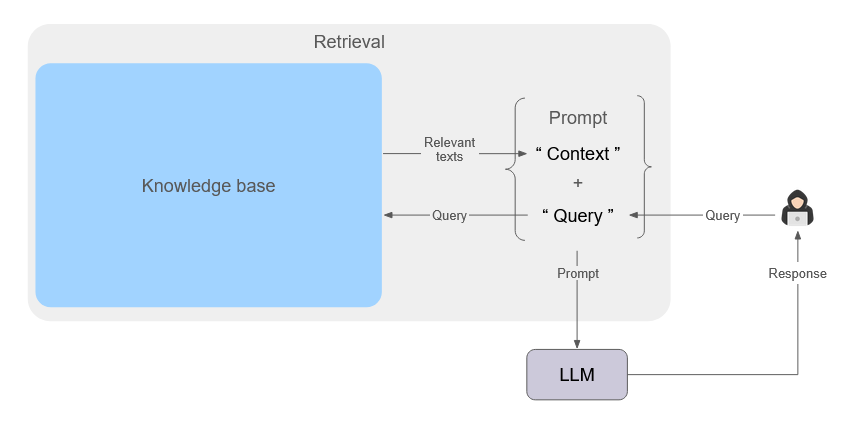
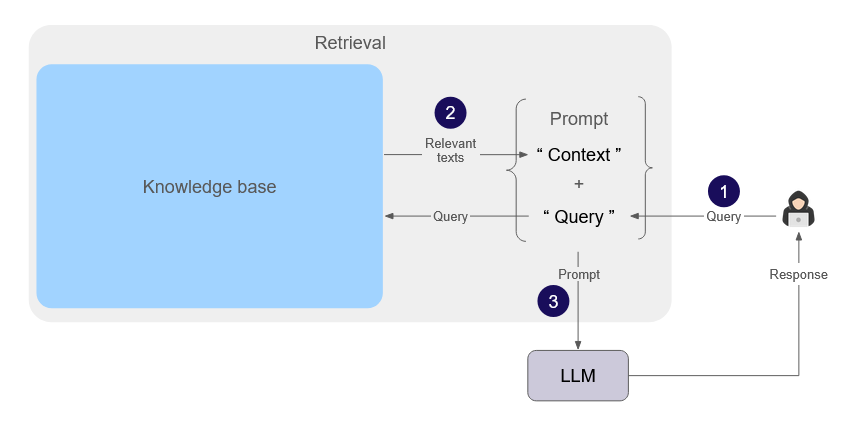
fix: updated content to meet last write-up review

diff --git a/src/pages/case-study.md b/src/pages/case-study.md
@@ -61,14 +61,14 @@ toc_max_heading_level: 4
 ## 1. Introduction
 
 ### 1.1  What is Paisley?
-Paisley is an open-source framework to help IT or engineering teams quickly set up and deploy chatbots that use their own data. It achieves this through Retrieval-Augmented Generation (RAG).
+Paisley is an open-source framework to help IT or engineering teams quickly set up and deploy chatbots that respond based upon user-defined data. It achieves this through Retrieval-Augmented Generation (RAG).
 
-RAG is an approach for enhancing the capabilities of Large Language Models (LLMs) with an external store of (often proprietary) information[^1]. With a RAG system, users make natural language queries to retrieve information from an external knowledge base. Then, this retrieved information is included in a prompt to an LLM, such as OpenAI's GPT-4o or Anthropic’s Claude 3.5 Sonnet.
+RAG is an approach for enhancing the capabilities of Large Language Models (LLMs) with an external store of (often proprietary) information[^1]. With a RAG system, users make natural language queries to retrieve information from an external knowledge base. This retrieved information is then included in a prompt to an LLM, such as OpenAI's GPT-4o or Anthropic’s Claude 3.5 Sonnet.
 
 Although a basic prototype RAG chatbot can be quickly created from numerous online tutorials and open-source libraries, deploying a production-ready chatbot involves a number of additional steps which require knowledge, libraries, and infrastructure to realize.
 
 ###  1.2 Use Case
-Paisley was created as an open-source, configurable, “bring-your-own-cloud” alternative to the proliferation of closed-source, paid, and typically 3rd party-hosted RAG chatbot services. Our RAG “starter-kit” enables teams of around 20 people with limited resources and time to skip some of the research, easily establish knowledge bases, and more quickly deploy internal RAG chatbots.
+Paisley was created as an open-source, configurable, “bring-your-own-cloud” alternative to the proliferation of closed-source, paid, and typically 3rd party-hosted RAG chatbot services. Our RAG “starter-kit” enables teams of around 20 people with limited resources and time to skip some of the research, easily set up knowledge bases, and more quickly deploy internal RAG chatbots.
 
 Paisley may be a fit in any scenario where there may be a distribution of duties: a busy technical expert who may help to set up the chatbot infrastructure, an information owner who sets up the knowledge base, and the ultimate consumers of that information - other people with questions.
 
@@ -96,7 +96,7 @@ When using a chat interface, a user’s question (the *query*) is only part of w
 ### 2.2 Basic RAG
 Most simply, RAG involves retrieving additional information about a user’s query and placing it into a prompt sent to an LLM as context.
  
-This additional information comes from one or more knowledge bases that serve as a “source of truth” for the LLM. Knowledge bases are created by breaking down files, such as a PDF, into smaller *chunks* of text. When a user submits a query, relevant chunks are retrieved from the knowledge base(s). This retrieved data and any instructions in the prompt will ground the LLM response to a user’s query with the relevant context. 
+This additional information comes from one or more knowledge bases that serve as a “source of truth” for the LLM. Knowledge bases are created by breaking down files, such as a PDF, into smaller *chunks* of text. When a user submits a query (“1” in diagram below), relevant chunks are retrieved from the knowledge base(s). This retrieved text (“2”) is combined with the original query, into a prompt instructing the LLM to respond with information from the context. This prompt is then sent to the LLM (“3”) to generate a response which is based on (or *grounded* with) the retrieved information.
 
 <img src='/img/2-2-0-retrieval2.png' alt='retrieval2' />
 
@@ -107,7 +107,7 @@ The first step in ingestion is breaking down the raw data into smaller pieces (*
 
 <img src='/img/2-2-1-kb-embed1.png' alt='embedding1' />
 
-The next step of ingestion is to convert chunked data into an array of numbers (known as *embeddings* or *vectors*), using an embedding model. An embedding model can be thought of as an algorithm, a set of steps which take in an input (text, in this case) and produce an output (array of numbers). These numbers are a multi-dimensional array of hundreds or thousands of floating point values[^4]. An embedding captures the semantic meaning of each chunk, allowing for more nuanced and efficient comparisons than using raw data.
+The next step of ingestion is to convert chunked data into an array of numbers (known as *embeddings* or *vectors*) using an embedding model. An embedding model can be thought of as an algorithm, a set of steps which take an input (text, in this case) and produce an output (array of numbers). These numbers are a multi-dimensional array of hundreds or thousands of floating point values[^4]. An embedding captures the semantic meaning of each chunk, allowing for more nuanced and efficient comparisons than using raw data.
 
 <img src='/img/2-2-1-kb-embed2.png' alt='embedding2' />
 
@@ -130,7 +130,7 @@ When a user submits a query (“1” in diagram below), it is embedded using the
 
 ### 2.3 Post-processing context
 
-Above, we’ve outlined a simple RAG process involving indexing and retrieval prior to LLM generation. If additional knowledge bases are added, each representing different choices in how documents are ingested to best suit content type, the amount of retrieved context may also increase. Not all retrieved text content may be equally relevant to a user query. Thus,  further processing of the retrieved context can significantly improve RAG performance[^2].
+Above, we’ve outlined a simple RAG process involving indexing and retrieval prior to a response from the LLM. If additional knowledge bases are added, each representing different choices in how documents are ingested to best suit content type, the amount of retrieved context may also increase. Not all retrieved text content may be equally relevant to a user query. Thus, further processing of the retrieved context can significantly improve RAG performance[^2].
 
 To manage the volume of retrieved context, some filtering of context before submission to the LLM improves RAG performance.  Once context is retrieved, rejecting the context that may be least relevant (i.e., the corresponding vector is least similar to the query) helps to reduce computational resources and/or LLM token costs. This process is known as *similarity filtering*.
 
@@ -146,26 +146,19 @@ Different LLMs may have limitations on the amount of context they can process an
 
 ### 2.4 Evaluating a RAG system
 
-Above, we’ve outlined a RAG process involving indexing, retrieval, and post-processing of context prior to LLM generation. The complexity in RAG arises from the vast number of options available for even just those three initial steps, all of which can greatly impact the quality of the LLM’s response. As a result, a structured method for evaluating RAG performance is critical.
+Above, we’ve outlined a RAG process involving indexing, retrieval, and post-processing of context prior to LLM generation. The complexity in RAG arises from the vast number of options available for even just those three initial steps, all of which can greatly impact the quality of the LLM response. As a result, a structured method for evaluating RAG performance is critical.
 
-Both the quality of the retrieved context (text chunks) and the final answer generated by the LLM are key areas for evaluation. Three common metrics used to assess context retrieval and answer quality are:
+There are two key areas of evaluation: 
 <ul>
-  <li>Answer relevance: How well does the generated response address the user query?</li>
-  <li>Context relevance: How relevant are the chunks retrieved for the user query?</li>
-  <li>Faithfulness: How accurately does the generated response utilize the retrieved context?</li>
+<li>quality of the retrieved context (text chunks), and</li>
+<li>final answer generated by the LLM.</li>
 </ul>
 
-Answer relevance is the first thing that the end-user of the chatbot will notice – is the chatbot’s response relevant to my question? Low answer relevancy can indicate poor retrieval quality or that the documents don’t have information relevant to the question.
+Ultimately, the best evaluations will be those involving a team of subject matter experts to create a reference dataset identifying expected context and generated response for each query - a time-consuming and expensive process.
 
-Context relevance is another key consideration for someone iterating on a RAG system – what context was returned by the retrieval mechanism, and is it relevant to the user query? This is possibly the most important metric to consider in a RAG system as the quality of retrieved context contributes directly to the quality of the response. 
+The powerful LLM’s today are becoming increasingly capable and can also be used to support evaluations with or without reference datasets[^6]. Evaluation frameworks exist that utilize LLMs to judge each question, context, and generated response, and assign scores of relative quality. Low scores across a variety of different queries indicate opportunities to improve RAG configuration options.
 
-Faithfulness is a measure of the generated response and how it relates to the retrieved context. If the generated response includes hallucinations or makes use of information outside of the retrieved context, this will be reflected in the faithfulness metric.
 
-<img src='/img/2-4-0-evaluations.png' alt='evaluations metrics' />
-
-*Human in the loop* evaluations require a team of experts to individually judge alignment of query, context, and generated response, a time-consuming and expensive process. 
-
-Evaluation frameworks exist that utilize LLMs to judge each question, context, and generated response on a scale of 0 to 1. Low scores across a variety of different queries indicate opportunities to improve RAG configuration options.
 
 
 ## 3. Existing solutions
@@ -192,7 +185,7 @@ Wherever they land on the spectrum, these solutions are hosted on the vendor’s
 
 For our project we focused on the more targeted solutions better suited for a small organization, rather than enterprise platforms. 
 
-Mendable (https://www.mendable.ai/) is a hosted solution that aligns well with our hypothetical use case. They simplify the process of configuring and deploying custom chatbots with an intuitive, web-based user interface. Their free feature set includes the ability to create a chatbot, upload documents that form a knowledge base, adjust basic configuration settings for this chatbot, view a history of past chatbot conversations, and access the created chatbot via a created React component or via a hosted API endpoint.
+For example, Mendable (https://www.mendable.ai/) is a hosted solution that aligns well with our hypothetical use case. They simplify the process of configuring and deploying custom chatbots with an intuitive, web-based user interface. Their free feature set includes the ability to create a chatbot, upload documents that form a knowledge base, adjust basic configuration settings for this chatbot, view a history of past chatbot conversations, and access the created chatbot via a created React component or via a hosted API endpoint.
 
 ## 4. Introducing Paisley
 
@@ -230,7 +223,7 @@ The sentence splitter is designed to keep sentences and paragraphs together. Pre
 
 The semantic splitter uses an embedding model to compare the semantic meaning of sentences and then groups those sentences into semantically similar chunks. Note that the semantic chunking strategy utilizes an embedding model twice. First by embedding each sentence for similarity comparison and grouping and again to create embeddings for each group.
 
-The markdown splitter is implemented through the use of a 3rd party LlamaParse API. This external API can selectively apply more advanced strategies to convert images to text through Optical Character Recognition (“OCR”), and add markdown headings and structure to data from tables or figures. The returned markdown is then chunked and embedded by Paisley. While this approach allows for the effective ingestion of more complex files (e.g. table data), it relies on an external service and an LLM before embedding can occur. As a result, it is a time-intensive process.
+The markdown splitter is implemented through the use of a 3rd party LlamaParse API. This external API can selectively apply more advanced strategies to convert images to text through Optical Character Recognition (OCR), and add markdown headings and structure to data from tables or figures. The returned markdown is then chunked and embedded by Paisley. While this approach allows for the effective ingestion of more complex files (e.g. table data), it relies on an external service and an LLM before embedding can occur. As a result, it is a time-intensive process.
 
 <img src='/img/4-1-0-kb2-alt.png' alt='Paisley screenshot - knowledge bases' style={{border: "2px solid darkgray"}}/>
 
@@ -271,9 +264,24 @@ All post processing strategies and the instructive prompt configurations are opt
 
 ### 4.3 Evaluations
 
-Given Paisley’s quick-start use case, we opted to include automatic, LLM-assigned evaluations. Whenever users query a Paisley chatbot, evaluation metrics are automatically calculated by an LLM.  A history of all queries, associated context, generated LLM response, and metrics are visible on the History and Metrics pages. Using the provided evaluation metrics, the user is able to compare a chatbot’s historical query performance and measure RAG performance over time. Using these metrics in conjunction with the configuration options mentioned above, the user is able to quickly determine the results of their changes.
+Given Paisley’s "quick-start" use case, we opted to include automatic, LLM-assigned evaluations. Whenever users query a Paisley chatbot, evaluation metrics are automatically calculated by an LLM.  A history of all queries, associated context, generated LLM response, and metrics are visible on the History and Metrics pages. Using the provided evaluation metrics, the user is able to compare a chatbot’s historical query performance and measure RAG performance over time. Using these metrics in conjunction with the configuration options mentioned above, the user is able to quickly determine the results of their changes.
 
-As mentioned in section 2.4, three common RAG metrics are *answer relevance*, *context relevance*, and *faithfulness*. Scores are assigned to each metric for every query, the retrieved context, and generated LLM response. Answer relevance and Faithfulness scores are assigned by an LLM using the RAGAs framework (https://docs.ragas.io/en/stable/), and contextual relevance scores are calculated by an LLM using DeepEval (https://docs.confident-ai.com/docs/metrics-introduction). 
+We’ve chosen three metrics to assess context retrieval and answer quality:
+<ul>
+  <li>Answer relevance: How well does the generated response address the user query?</li>
+  <li>Context relevance: How relevant are the chunks retrieved for the user query?</li>
+  <li>Faithfulness: How accurately does the generated response utilize the retrieved context?</li>
+</ul>
+
+Answer relevance is the first thing that the end-user of the chatbot will notice – is the chatbot’s response relevant to my question? Low answer relevancy can indicate poor retrieval quality or that the documents don’t have information relevant to the question.
+
+Context relevance is another key consideration for someone iterating on a RAG system – what context was returned by the retrieval mechanism, and is it relevant to the user query? This is possibly the most important metric to consider in a RAG system as the quality of retrieved context contributes directly to the quality of the response.
+
+Faithfulness is a measure of the generated response and how it relates to the retrieved context. If the generated response includes hallucinations or makes use of information outside of the retrieved context, this will be reflected in the faithfulness metric.
+
+<img src='/img/2-4-0-evaluations.png' alt='evaluations metrics' />
+
+Scores are assigned to each metric for every query, the retrieved context, and generated LLM response. Answer relevance and Faithfulness scores are assigned by an LLM using the RAGAs framework (https://docs.ragas.io/en/stable/), and contextual relevance scores are calculated by an LLM using DeepEval (https://docs.confident-ai.com/docs/metrics-introduction). 
 
  A summary of the chatbot interaction history is displayed within the “History” tab.
 
@@ -302,7 +310,7 @@ In support of this objective, we picked AWS as a cloud infrastructure provider b
 
 ### 5.1 EC2 server
 
-The core of Paisley revolves around a back-end server that provides API endpoints for our web-based UI and chatbot users. Our server also calls external APIs for embedding models and LLMs. To host this server we chose a (cost-effective) AWS EC2 instance. This long-running server gives us the flexibility to define a larger Elastic Block Storage size to maintain 10+ gb of development libraries and dependencies. A single EC2 instance also provides us the option of converting to auto-scaling instances in future, if required.
+The core of Paisley revolves around a back-end server that provides API endpoints for our web-based UI and chatbot users. Our server also calls external APIs for embedding models and LLMs. To host this server we chose a (cost-effective) AWS EC2 instance. This long-running server gives us the flexibility to define a larger Elastic Block Storage size to maintain all of the necessary development libraries and dependencies. A single EC2 instance also provides us the option of converting to auto-scaling instances in future, if required.
 
 <img src='/img/5-1-0-infra.png' alt='basic infrastructure overview' />
 
@@ -329,7 +337,7 @@ Knowledge bases are composed of text chunks, the corresponding vector embeddings
 
 Chatbots have a similar json configuration object which defines included knowledge bases, post-processing, and LLM options for each chatbot.
 
-To flexibly and scalably store data for multiple knowledge bases and chatbots, Paisley uses a schemaless noSQL database. DocDB provides built-in support for vector similarity search and easily stores json objects.
+To flexibly and scalably store data for multiple knowledge bases and chatbots, Paisley uses a schemaless noSQL database. DocumentDB provides built-in support for vector similarity search and easily stores json objects.
 
 
 #### 5.2.3 Specialized vector databases
@@ -340,7 +348,7 @@ We also considered the use of specialized vector databases, such as Milvus, Qdra
   <li>Featureset and offerings from some vector databases are rapidly changing - during the initial prototyping we conducted with some vector databases we noticed that SDK methods had deprecated only 2 weeks later.</li>
 </ul>
 
-The stable, established nature of DocDB is aligned with our goal of simplifying things for small teams. Use of a “standard” database simplifies troubleshooting and maintenance, and provides maximum flexibility.
+The stable, established nature of DocumentDB is aligned with our goal of simplifying things for small teams. Use of a “standard” database simplifies troubleshooting and maintenance, and provides maximum flexibility.
 
 #### 5.2.4 Evaluations
 
@@ -350,31 +358,30 @@ Paisley uses the AWS RDS relational database (PostgreSQL-compatible) to store ev
 
 ### 5.3 Paisley source code
 
-Paisley’s back-end is written entirely in Python3. Our API endpoints leverage the FastAPI framework for our web server. Python was a logical language choice given the depth and breadth of existing libraries and frameworks in the Python ecosystem. It is the most common language for AL/ML-related projects.
+Paisley’s back-end is written entirely in Python. Our API endpoints use the FastAPI framework on the backend to serve our API endpoints. Python was a logical language choice given the depth and breadth of existing libraries and frameworks in the Python ecosystem. It is the most common language for AL/ML-related projects.
 
 As an open-source “starter-kit”, our intent was to provide small teams the flexibility to continue to build on Paisley, if desired. Thus, we prototyped various RAG libraries and frameworks to better understand their benefits. Ultimately, we chose LlamaIndex.
 
 LlamaIndex exposes key RAG elements (nodes, indexes, retrievers) simply, allowing us to create and flexibly integrate multiple knowledge bases, each with unique settings, into a single chatbot. Built-in integrations also made it easy to connect ingested data, both raw and embedding, to a variety of databases. This flexibility allowed us to consider different RAG-related database solutions as discussed in Section 5.2 above. The library also helped streamline the implementation of the post-processing strategies discussed in sections 2 and 4 above. Finally, LlamaIndex has an active open-source community. Developers are able to implement, integrate, and share custom features they’ve created on LlamaHub making it easier for anyone to expand the scope of our project.
 
 #### 5.3.1 Knowledge base component
-Our code is broken up into modules organized by component. The knowledge base module interacts with DocDB to
+Our application is broken up into several components. The knowledge base component interacts with DocumentDB to:
 <ul>
   <li>store and retrieve json configurations, and</li>
   <li>store text chunks and associated embeddings for retrieval.</li>
 </ul>
-As you can see from the diagram below, this code leverages an external API to access the embedding model.
+As you can see from the diagram below, the knowledge base calls an external API to access the embedding model.
 
 <img src='/img/5-3-1-code-kb.png' alt='code diagram - knowledge bases' />
 
 #### 5.3.2 Chatbot component
-
-The chatbot code module accesses json configuration files from DocDB. From the diagram below, you can see that this module also accesses an external API to embed user queries. Query embeddings are then used to access DocDB, the primary point of integration with the knowledge base to conduct vector similarity search and retrieve context for the LLM.
+The chatbot component accesses json configuration files from DocumentDB. From the diagram below, you can see that this component also calls an external API to embed user queries. Query embeddings are then used to access DocumentDB, the primary point of integration with the knowledge base to conduct vector similarity search and retrieve context for the LLM.
 
 <img src='/img/5-3-2-code-chatbot.png' alt='code diagram - chatbot' />
 
 #### 5.3.3 Evaluations component
 
-The evaluations code module is the most distinct from the other two components. It receives query, context, and response information derived from the chatbot component, loads the appropriate evaluation libraries, and leverages LLMs to calculate the evaluation metrics discussed in Section 4 above. This process can be time-consuming as it relies on external APIs.  As a blocking operation, it would significantly delay query response to the user. As such, we serialize this information as a background processing task via a Python Celery client. Celery is a popular task queue in Python that can be used to quickly implement background tasks.
+The evaluations component is the most distinct from the other two components. It receives query, context, and response information derived from the chatbot component, loads the appropriate evaluation libraries, and leverages LLMs to calculate the evaluation metrics discussed in Section 4 above. This process can be time-consuming as it relies on external APIs.  As a blocking operation, it would significantly delay query response to the user. As such, we serialize this information as a background processing task via a Python Celery client. Celery is a popular task queue in Python that can be used to quickly implement background tasks.
 
 AWS SQS (Simple Queue Service) is used as a message broker to store tasks which are then processed by the Celery task worker. This task worker then executes evaluations tasks and persists the data within RDS so it can be queried and retrieved by the UI.
 
@@ -386,7 +393,7 @@ Additional discussion and rationale on this architecture can be found in Section
 
 ### 6.1 Background processing
 
-After our initial prototype implementation, we conducted load testing on Paisley using artillery.io. While testing our chatbot query route using knowledge bases with a half dozen large documents (from ~12 mb to ~20 mb) we noticed some significant latency and timeout issues. Based on the configuration options chosen, we realized that the amount of context retrieved would increase significantly with the number and size of the knowledge bases configured.  Since we had chosen to pursue LLM-assigned evaluation scores, each user query also required additional external API calls to an LLM for evaluations scoring. The amount of context retrieved is proportional to the size and number of documents within the knowledge base, and the number of external API calls is directly proportional to the amount of retrieved context.  Our initial implementation did not include background tasks for evaluations. Evaluations was a blocking operation and our query latency was growing proportionally longer as context increased.
+After our initial prototype implementation, we conducted load testing on Paisley. While testing our chatbot query route using knowledge bases with a half dozen large documents (from ~12 mb to ~20 mb) we noticed increasing latencies up until timeouts at 120 seconds. Based on the configuration options chosen, we realized that the amount of context retrieved would increase significantly with the number and size of the knowledge bases configured.  Since we had chosen to pursue LLM-assigned evaluation scores, each user query also required additional external API calls to an LLM for evaluations scoring. The amount of context retrieved is proportional to the size and number of documents within the knowledge base, and the number of external API calls is directly proportional to the amount of retrieved context.  Our initial implementation did not include background tasks for evaluations. Evaluations was a blocking operation and our query latency was growing proportionally longer as context increased.
 
 Our solution to this challenge was the architecture described in Section 5.3.3 above: to execute all evaluations-related processing as background tasks with Celery as a task queue and AWS SQS as a message broker. This change allowed the numerous evaluations-related API calls to be made in a non-blocking fashion, significantly improving query response times.  
 
@@ -396,9 +403,9 @@ An added benefit was that subsequent testing demonstrated an increased number of
 
 ### 6.2 Modular plug-in architecture for evaluations
 
-There are many open-source evaluations libraries and frameworks available. To enable a solution that would be quick and easy for our hypothetical organization to start with, we explored LLM-automated evaluation scoring.  
+There are many open-source evaluations libraries and frameworks available. To enable a solution that would be quick and easy for our intended use case, we explored LLM-automated evaluation scoring.
 
-After prototyping with some libraries, we initially decided to integrate the RAGAs Framework into Paisley since we liked the level of resolution provided by the automated scoring.  Where some libraries seemed to return the same score for every query/context/result, the metrics returned by RAGAs seemed more nuanced. However, after working with RAGAs, we also realized that the automated metrics available without user-provided questions and responses to compare against did not cover context evaluation as well as other packages.
+After prototyping with some libraries, we initially decided to integrate the RAGAs Framework into Paisley. In alignment with our “quick-start” objective, RAGAs worked well for users with no reference dataset of expected questions and answers, and we liked the level of resolution provided by the automated scoring. Where some libraries seemed to return the same score for every query/context/result, the metrics returned by RAGAs seemed more nuanced. However, after working with RAGAs, we also realized that without a reference dataset the only automated metrics available were LLM-response evaluation metrics. To incorporate a context evaluation metric for users without a reference dataset, another evaluation package was necessary.
 
 We realized that the need to compare, and possibly utilize, different evaluation packages is an inherent challenge of RAG development, especially given the current pace of evolution in the tools and libraries.
 
@@ -426,10 +433,11 @@ Another solution to this problem, known as *HyDE* (Hypothetical Document Embeddi
 
 ### 7.3 Golden dataset evaluations
 
-RAG and LLM evaluations is a topic with considerable depth and developing best practices. *Golden datasets* are predefined queries and answers, ideally supplied as human-approved content, but also can be gathered from human-approved RAG query responses, or even synthetically generated by an LLM. These datasets are a powerful evaluation tool used when used as a consistent baseline against which all future RAG responses are compared. This is a powerful evaluation tool which improves the long-term monitoring of RAG chatbots. Having such a golden dataset as a baseline also allows improved RAG configuration testing since having a consistent dataset on which to compare queries and answers improves comparability between configurations.
+RAG and LLM evaluations is a topic with considerable depth and developing best practices. *Golden datasets* or reference datasets are predefined queries and answers (sometimes including context). Ideally, these are supplied as human-approved content, but can also be gathered from human-approved RAG query responses, or even synthetically generated by an LLM. These datasets are a powerful evaluation tool used when used as a consistent baseline against which all future RAG responses are compared. This tool improves the long-term monitoring of RAG chatbots. Having such a golden dataset as a baseline also allows improved RAG configuration testing since having a consistent dataset on which to compare queries and answers improves comparability of assessments between configurations.
 
 [^1]: [Retrieval-Augmented Generation for Knowledge-Intensive NLP Tasks](https://arxiv.org/pdf/2005.11401)
 [^4]: [Vector Embeddings Explained](https://weaviate.io/blog/vector-embeddings-explained)
 [^2]: [Searching for Best Practices in RAG](https://arxiv.org/pdf/2407.01219)
 [^5]: [ColBERT: A complete guide](https://medium.com/@varun030403/colbert-a-complete-guide-1552468335ae)
 [^3]: [Modular RAG: Transforming RAG Systems into LEGO-like Reconfigurable Frameworks](https://arxiv.org/pdf/2407.21059v1)
+[^6]: [Using LLMs for Evaluation](https://cameronrwolfe.substack.com/p/llm-as-a-judge)
